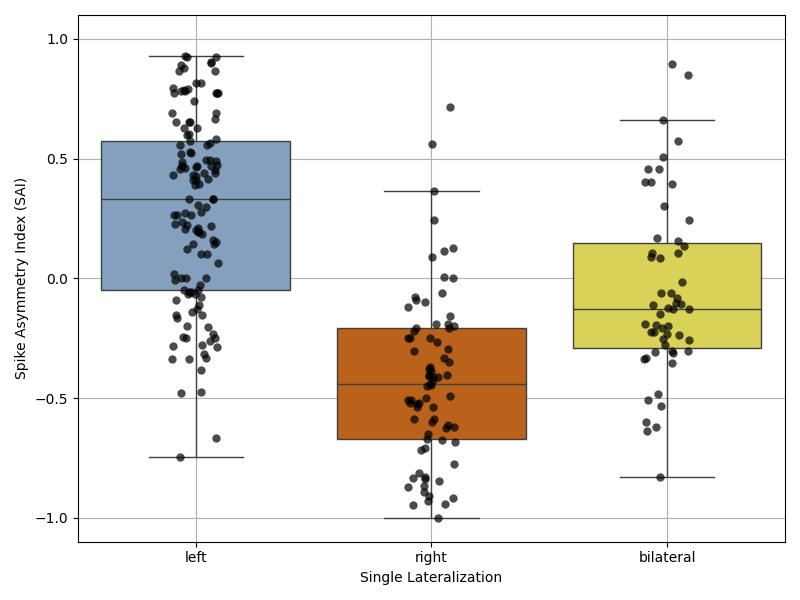
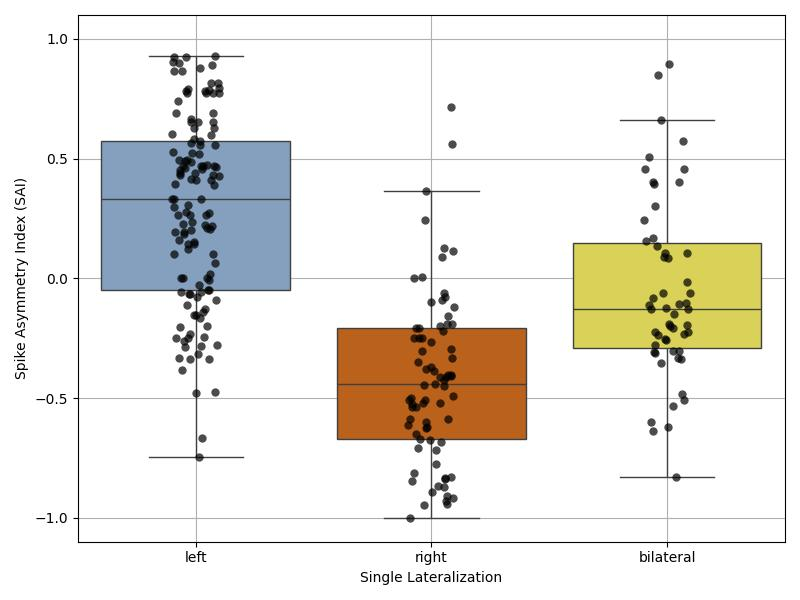
Updated the paths and requirements

diff --git a/Outcome/concordance.py b/Outcome/concordance.py
@@ -14,11 +14,11 @@ from scipy.stats import ttest_ind, mannwhitneyu
 # 1. Load Data
 # ------------------------------------------------------------
 script_dir = os.path.dirname(os.path.abspath(__file__))
-df_train = os.path.join(script_dir, "/Dataset/training_261.csv")
-df_test = os.path.join(script_dir, "/Dataset/test_104.csv")
-cnt_surgical = os.path.join(script_dir, "/Dataset/outcome.csv")
-save_path_4B = os.path.join(script_dir, "Visualization", "Fig4B.jpg")
-save_path_4D = os.path.join(script_dir, "Visualization", "Fig4D.jpg")
+df_train = os.path.join(script_dir, "..", "Dataset", "training_261.csv")
+df_test = os.path.join(script_dir, "..", "Dataset", "test_104.csv")
+cnt_surgical = os.path.join(script_dir, "..", "Dataset", "outcome.csv")
+save_path_4B = os.path.join(script_dir, "..", "Visualization", "Fig4B.jpg")
+save_path_4D = os.path.join(script_dir, "..", "Visualization", "Fig4D.jpg")
 
 df_train = pd.read_csv(df_train)
 df_test = pd.read_csv(df_test)

diff --git a/Machine_learning/all_recording_duration.py b/Machine_learning/all_recording_duration.py
@@ -10,11 +10,11 @@ durations_min = list(range(30, 1801, 30))
 
 # === File Paths ===
 script_dir = os.path.dirname(os.path.abspath(__file__))
-train_folder = os.path.join(script_dir, "/Dataset/patient_sai_values_all_training.csv")
-test_folder = os.path.join(script_dir, "/Dataset/patient_sai_values_all_test.csv")
-output_dir = os.path.join(script_dir, "/Visualization/")
-train_folder = pd.read_csv(train_folder)
-test_folder = pd.read_csv(test_folder)
+train_folder = os.path.join(script_dir, "..", "Dataset","patient_sai_values_all_training.csv")
+test_folder = os.path.join(script_dir, "..", "Dataset","patient_sai_values_all_test.csv")
+output_dir = os.path.join(script_dir, "..", "Visualization")
+# train_folder = pd.read_csv(train_folder)
+# test_folder = pd.read_csv(test_folder)
 
 def bootstrap_auc(y_true, y_score, n_iterations=1000, alpha=0.05):
     """Calculates bootstrap 95% CI for AUC and returns the median AUC."""

diff --git a/Univariate_Analysis/SAI_spike_rates.py b/Univariate_Analysis/SAI_spike_rates.py
@@ -6,10 +6,10 @@ import seaborn as sns
 
 # 1. Load data
 script_dir = os.path.dirname(os.path.abspath(__file__))
-tle_df_training = os.path.join(script_dir, "/Dataset/training_261.csv")
-tle_df_training = pd.read_csv(tle_df_training)
-save_path_2C = os.path.join(script_dir, "Visualization", "Fig2C.jpg")
-save_path_2D = os.path.join(script_dir, "Visualization", "Fig2D.jpg")
+tle_df_training = os.path.join(script_dir, "..", "Dataset", "training_261.csv")
+tle_df_training = pd.read_csv(tle_df_training)  #read in the training data
+save_path_2C = os.path.join(script_dir, "..", "Visualization", "Fig2C.jpg")
+save_path_2D = os.path.join(script_dir, "..", "Visualization", "Fig2D.jpg")
 
 # Filter for the specified threshold
 tle_df_training = tle_df_training[
